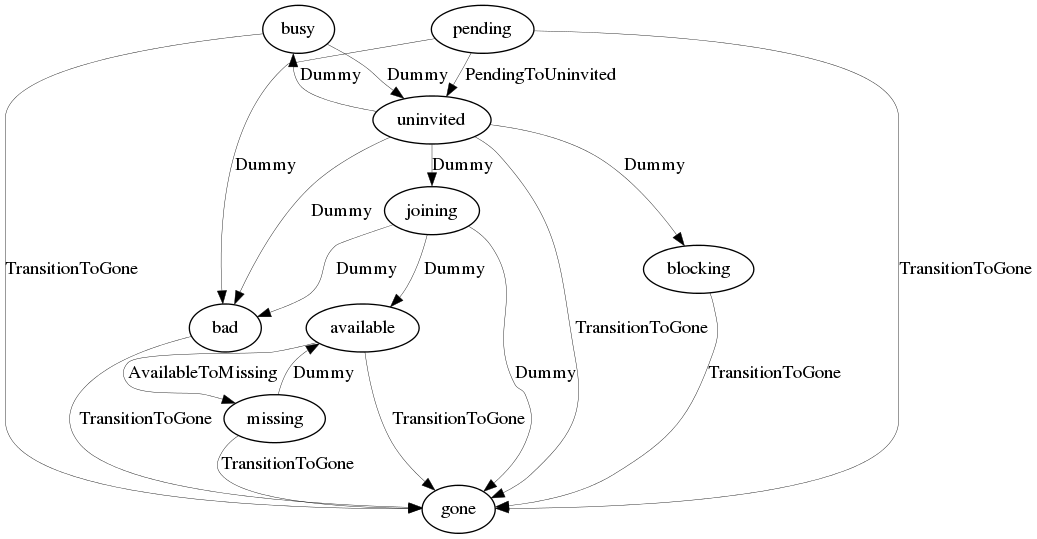
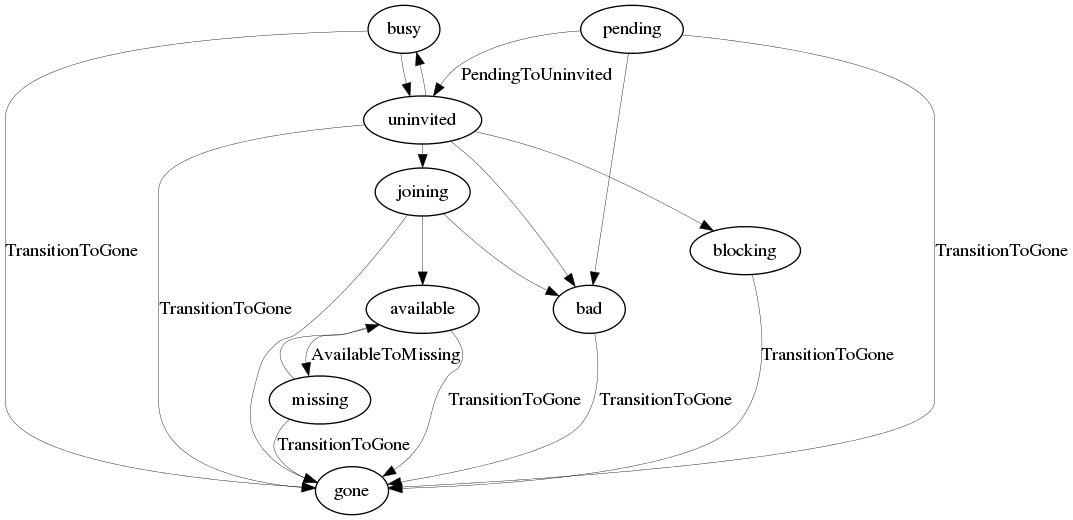
remove dummy from label

diff --git a/concert_utilities/src/concert_utilities/conductor_graph/dotcode.py b/concert_utilities/src/concert_utilities/conductor_graph/dotcode.py
@@ -176,7 +176,10 @@ class ConductorStateDotcodeGenerator:
             fr, to = transition
             nodes.append(fr)
             nodes.append(to)
-            edges.append(Edge(fr, to, transition_func.__name__))
+
+            label = '' if transition_func.__name__ == 'Dummy' else transition_func.__name__
+        
+            edges.append(Edge(fr, to, label))
 
         # make it as unique string list
         nodes = list(set(nodes))
